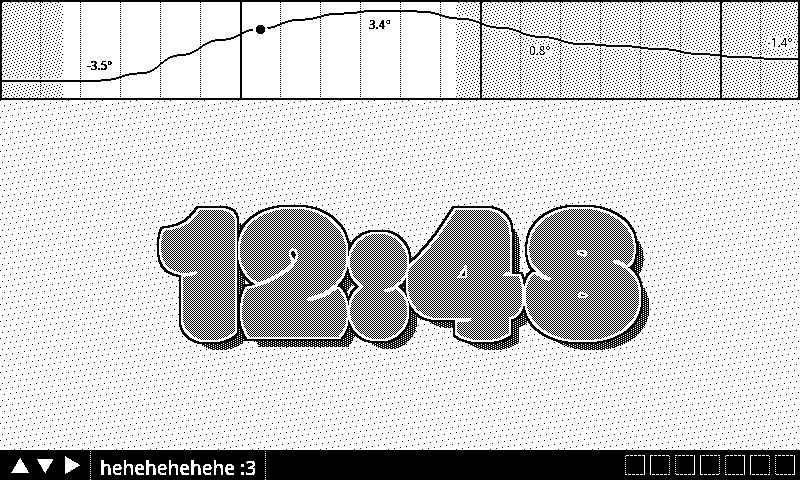
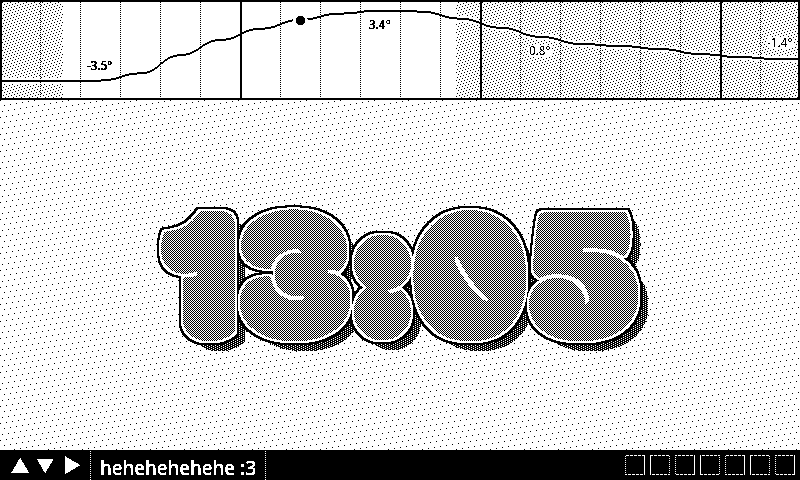
rain!

diff --git a/base/ui/dayview.ts b/base/ui/dayview.ts
@@ -58,14 +58,40 @@ export function drawDayview(weather: WeatherApi, height = 100): Renderer {
 
     const tempUpper = ~~(height * 0.1)
     const tempLower = ~~(height - height * 0.2)
+    const rainHeight = ~~(height * 0.2)
     const tempVar = tempLower - tempUpper
-    for (let hour = 0; hour < hourCount; hour++) {
-      const leftValue = hourly[hour === 0 ? 0 : (hour - 1)].temperature
-      const centerValue = hourly[hour].temperature
-      const rightValue = hourly[hour === (hourCount - 1) ? (hourCount - 1) : (hour + 1)].temperature
-      const hourWidthHalf = hourWidth/2
+    const hourWidthHalf = hourWidth/2
 
-      let x = 0, y = 0, p = 0, g = 0, w = 0
+    let x = 0, y = 0, p = 0, g = 0, w = 0
+    let leftValue = 0, centerValue = 0, rightValue = 0
+    for (let hour = 0; hour < hourCount; hour++) {
+      // Rain
+      leftValue = hourly[hour === 0 ? 0 : (hour - 1)].precipitation
+      centerValue = hourly[hour].precipitation
+      rightValue = hourly[hour === (hourCount - 1) ? (hourCount - 1) : (hour + 1)].precipitation
+      for (let xi = 0; xi < hourWidthHalf; xi++) {
+        x = xi + hourWidth * hour
+        p = xi / hourWidthHalf
+        g = (leftValue + centerValue) / 2
+        w = g + Easings.easeOutQuad(p) * (centerValue - g)
+        y = height - rainHeight * w / 100
+        for (let yi = y; yi < height; yi++)
+          paint.setPixel(x, yi, 0)
+      }
+      for (let xi = hourWidthHalf; xi < hourWidth; xi++) {
+        x = xi + hourWidth * hour
+        p = (xi - hourWidthHalf) / hourWidthHalf
+        g = (centerValue + rightValue) / 2
+        w = centerValue + Easings.easeInQuad(p) * (g - centerValue)
+        y = height - rainHeight * w / 100
+        for (let yi = y; yi < height; yi++)
+          paint.setPixel(x, yi, 0)
+      }
+
+      // Temperature
+      leftValue = hourly[hour === 0 ? 0 : (hour - 1)].temperature
+      centerValue = hourly[hour].temperature
+      rightValue = hourly[hour === (hourCount - 1) ? (hourCount - 1) : (hour + 1)].temperature
       for (let xi = 0; xi < hourWidthHalf; xi++) {
         x = xi + hourWidth * hour
         p = xi / hourWidthHalf

diff --git a/base/ui/bar.ts b/base/ui/bar.ts
@@ -58,7 +58,7 @@ export function drawBar(weather: WeatherApi, barHeight = 50): Renderer {
 
     // wettervorhersage für die nächsten 7 (idealerweise 10) tag + wochenende / feiertage
     for (let i = 0; i < numDays; i++) {
-      console.log(weather.getDay(i))
+      // console.log(weather.getDay(i))
       paint
         .newRect(i * (dayWidth + dayPadding), 0, dayWidth, barHeight - padding*2)
         .outline('light')
